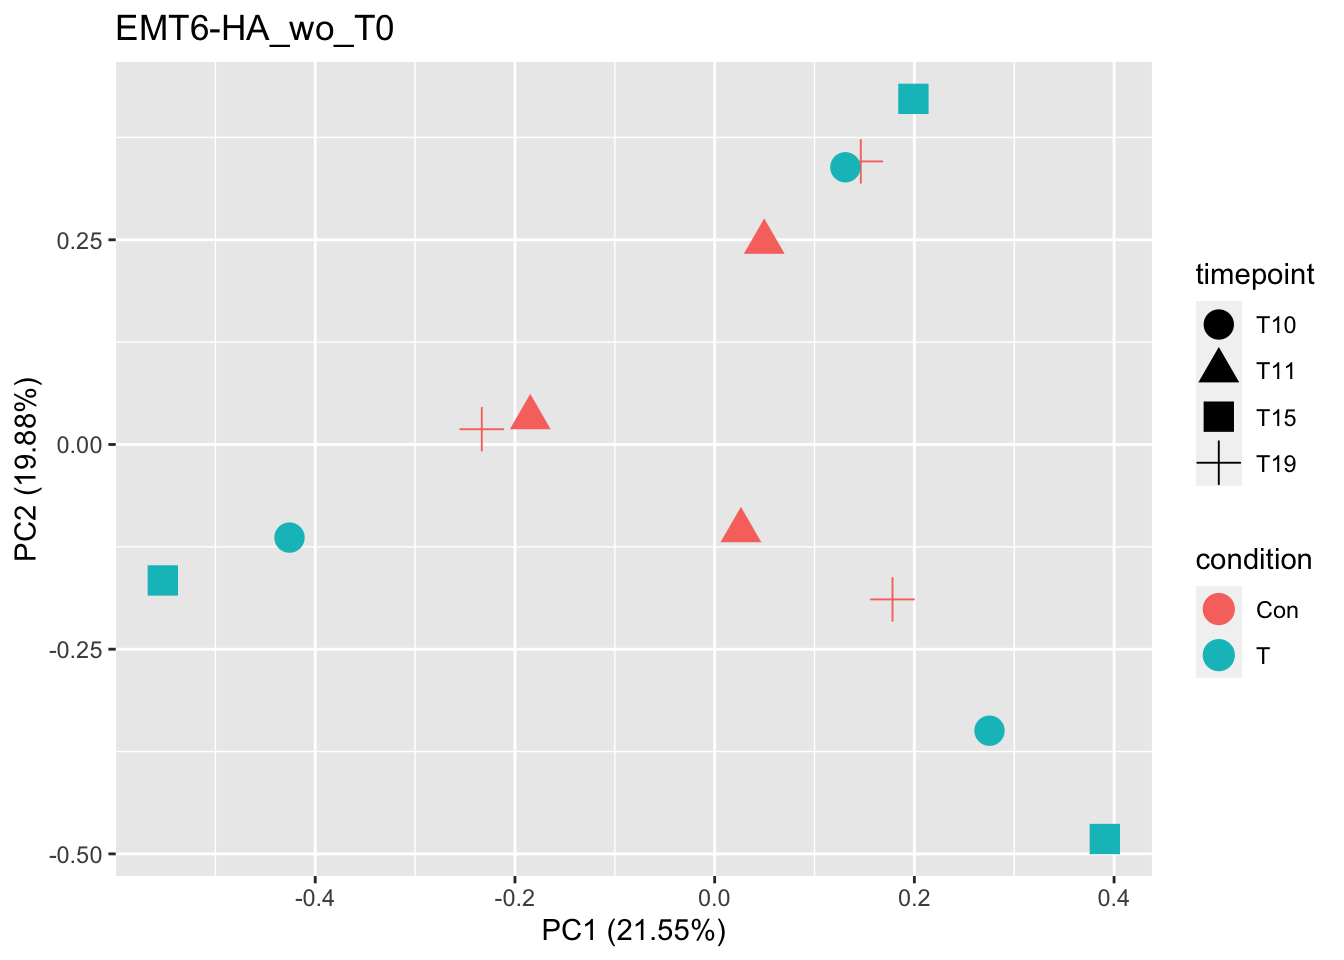
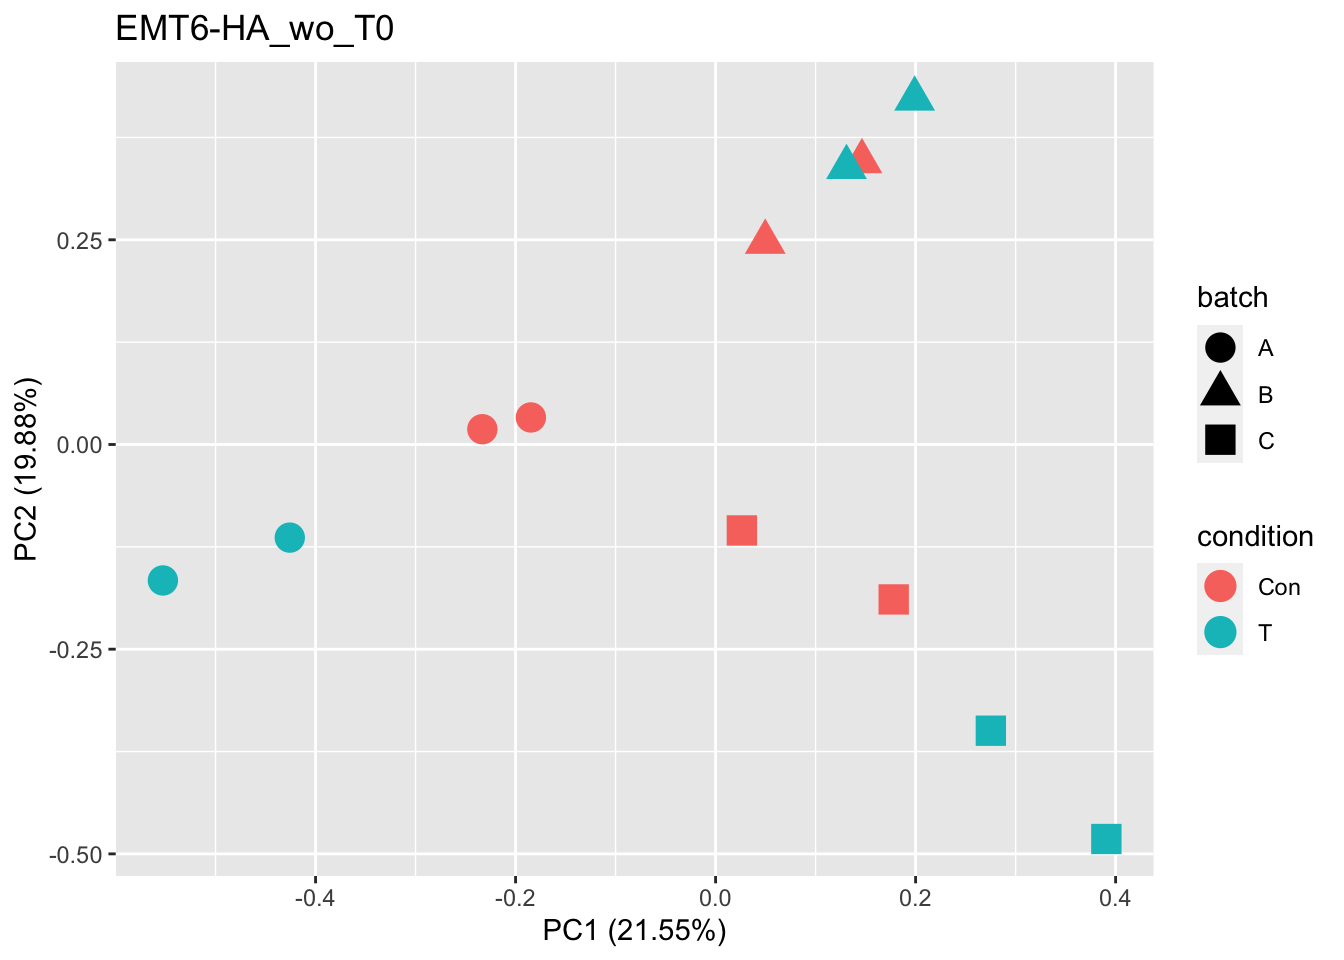
Build site.

diff --git a/docs/32968282_JasonMoffat_Nature_2020.html b/docs/32968282_JasonMoffat_Nature_2020.html
@@ -434,16 +434,16 @@ This reproducible <a href="http://rmarkdown.rstudio.com">R Markdown</a> analysis
 <div class="panel panel-default">
 <div class="panel-heading">
 <p class="panel-title">
-<a data-toggle="collapse" data-parent="#workflowr-checks" href="#strongRepositoryversionstrongahrefhttpsgithubcomBuilderPierunMAGeCKVISPRtree5293d8ee2af33f7ba7811c4d91281659cd6db1f8targetblank5293d8ea"> <span class="glyphicon glyphicon-ok text-success" aria-hidden="true"></span> <strong>Repository version:</strong> <a href="https://github.com/BuilderPie/run_MAGeCK-VISPR/tree/5293d8ee2af33f7ba7811c4d91281659cd6db1f8" target="_blank">5293d8e</a> </a>
+<a data-toggle="collapse" data-parent="#workflowr-checks" href="#strongRepositoryversionstrongahrefhttpsgithubcomBuilderPierunMAGeCKVISPRtree6652b57397f8b1933ffc9c43ca5b52f1c3f8d29btargetblank6652b57a"> <span class="glyphicon glyphicon-ok text-success" aria-hidden="true"></span> <strong>Repository version:</strong> <a href="https://github.com/BuilderPie/run_MAGeCK-VISPR/tree/6652b57397f8b1933ffc9c43ca5b52f1c3f8d29b" target="_blank">6652b57</a> </a>
 </p>
 </div>
[2 lines of base64/hex data omitted]
 <div class="panel-body">
 <p>
 Great! You are using Git for version control. Tracking code development and connecting the code version to the results is critical for reproducibility.
 </p>
 <p>
-The results in this page were generated with repository version <a href="https://github.com/BuilderPie/run_MAGeCK-VISPR/tree/5293d8ee2af33f7ba7811c4d91281659cd6db1f8" target="_blank">5293d8e</a>. See the <em>Past versions</em> tab to see a history of the changes made to the R Markdown and HTML files.
+The results in this page were generated with repository version <a href="https://github.com/BuilderPie/run_MAGeCK-VISPR/tree/6652b57397f8b1933ffc9c43ca5b52f1c3f8d29b" target="_blank">6652b57</a>. See the <em>Past versions</em> tab to see a history of the changes made to the R Markdown and HTML files.
 </p>
 <p>
 Note that you need to be careful to ensure that all relevant files for the analysis have been committed to Git prior to generating the results (you can use <code>wflow_publish</code> or <code>wflow_git_commit</code>). workflowr only checks the R Markdown file, but you know if there are other scripts or data files that it depends on. Below is the status of the Git repository when the results were generated:
@@ -494,6 +494,40 @@ Message
 </tr>
 </thead>
 <tbody>
+<tr>
+<td>
+Rmd
+</td>
+<td>
+<a href="https://github.com/BuilderPie/run_MAGeCK-VISPR/blob/6652b57397f8b1933ffc9c43ca5b52f1c3f8d29b/analysis/32968282_JasonMoffat_Nature_2020.Rmd" target="_blank">6652b57</a>
+</td>
+<td>
+BuilderPie
+</td>
+<td>
+2021-02-09
+</td>
+<td>
+Heatmap
+</td>
+</tr>
+<tr>
+<td>
+html
+</td>
+<td>
+<a href="https://rawcdn.githack.com/BuilderPie/run_MAGeCK-VISPR/55f4f2a76d44dcdd01c759b891d8ef60fceeae1d/docs/32968282_JasonMoffat_Nature_2020.html" target="_blank">55f4f2a</a>
+</td>
+<td>
+BuilderPie
+</td>
+<td>
+2021-02-09
+</td>
+<td>
+Build site.
+</td>
+</tr>
 <tr>
 <td>
 Rmd
@@ -850,7 +884,7 @@ for (cl in cellline){
   df = as.data.frame(t(finalCount[, grep(cl, colnames(finalCount))]))
   pca_res &lt;- prcomp(df)
   df$condition = sapply(X = strsplit(rownames(df),&quot;_&quot;), FUN = function(x){x[4]})
-  df$timepoint = sapply(X = strsplit(rownames(df),&quot;_&quot;), FUN = function(x){x[2]})
+  df$batch = sapply(X = strsplit(rownames(df),&quot;_&quot;), FUN = function(x){x[3]})
   # df[ , which(apply(df, 2, var) != 0)]
   # pca_res &lt;- prcomp(df[,-dim(df)[2]], scale. = TRUE)
   # print(autoplot(pca_res, data = df, colour = &#39;species&#39;, label = TRUE, label.size = 4, 
@@ -860,17 +894,17 @@ for (cl in cellline){
                  #          (1.3*max(pca_res$rotation[,&#39;PC2&#39;],na.rm=T)-0.3*min(pca_res$rotation[,&#39;PC2&#39;],na.rm=T))),
                  # main = paste0(cl, &quot;PCA&quot;)))
   
-  print(autoplot(pca_res, data = df, colour = &#39;condition&#39;, shape = &quot;timepoint&quot;, size = 5, main = paste0(cl, &quot;PCA&quot;)))
+  print(autoplot(pca_res, data = df, colour = &#39;condition&#39;, shape = &quot;batch&quot;, size = 5, main = paste0(cl, &quot;PCA&quot;)))
   
-  cor_res = cor(t(df[, -which(colnames(df)==&quot;condition&quot; | colnames(df)==&quot;timepoint&quot;)]))
+  cor_res = cor(t(df[, -which(colnames(df)==&quot;condition&quot; | colnames(df)==&quot;batch&quot;)]))
   print(Heatmap(cor_res, col = colorRamp2(c(min(cor_res, na.rm = T), 1), c(&quot;white&quot;, &quot;red&quot;)),
           column_title = paste0(cl, &quot;Correlation&quot;)))
   
   df = df[-grep(&quot;_T0_&quot;, rownames(df)), ]
-  pca_res &lt;- prcomp(df[, -which(colnames(df)==&quot;condition&quot; | colnames(df)==&quot;timepoint&quot;)])
-  print(autoplot(pca_res, data = df, colour = &#39;condition&#39;, shape = &quot;timepoint&quot;, size = 5, main = paste0(cl, &quot;wo_T0&quot;)))
+  pca_res &lt;- prcomp(df[, -which(colnames(df)==&quot;condition&quot; | colnames(df)==&quot;batch&quot;)])
+  print(autoplot(pca_res, data = df, colour = &#39;condition&#39;, shape = &quot;batch&quot;, size = 5, main = paste0(cl, &quot;wo_T0&quot;)))
   
-  cor_res = cor(t(df[, -which(colnames(df)==&quot;condition&quot; | colnames(df)==&quot;timepoint&quot;)]))
+  cor_res = cor(t(df[, -which(colnames(df)==&quot;condition&quot; | colnames(df)==&quot;batch&quot;)]))
   print(Heatmap(cor_res, col = colorRamp2(c(min(cor_res, na.rm = T), 1), c(&quot;white&quot;, &quot;red&quot;)),
           column_title = paste0(cl, &quot;wo_T0_Correlation&quot;)))
 }</code></pre>
